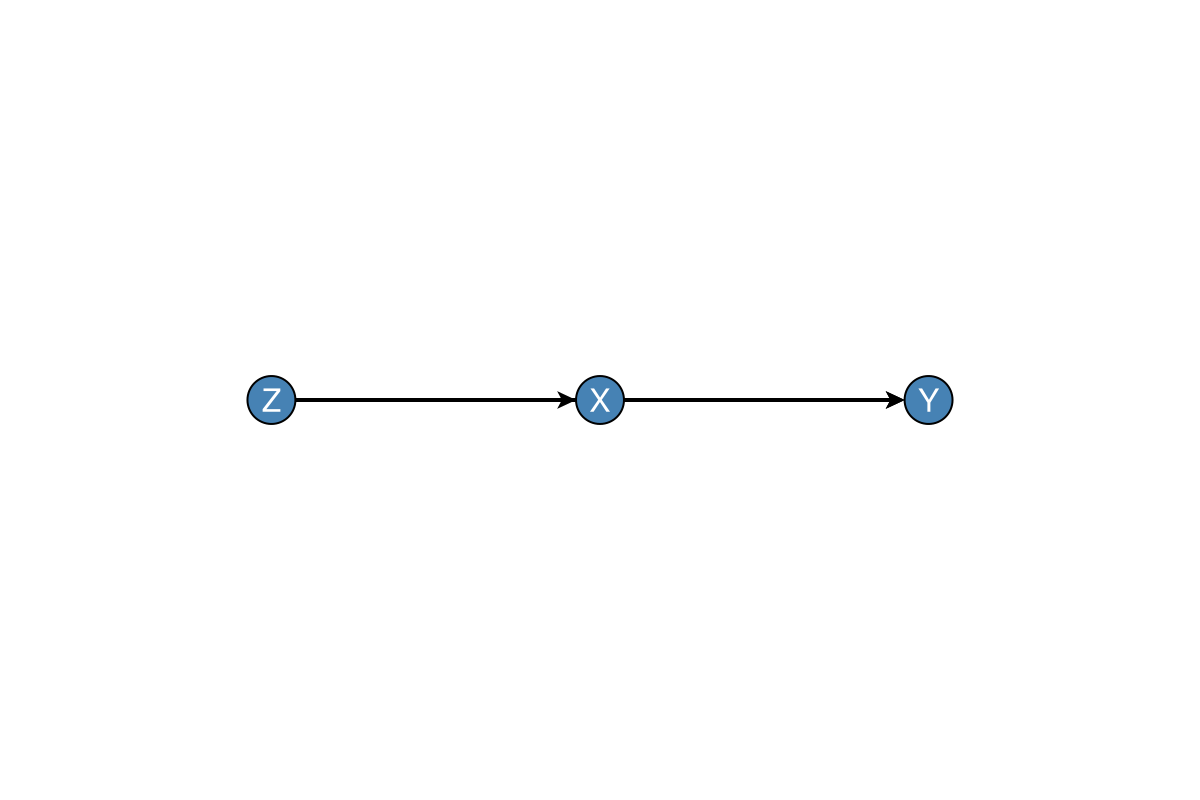
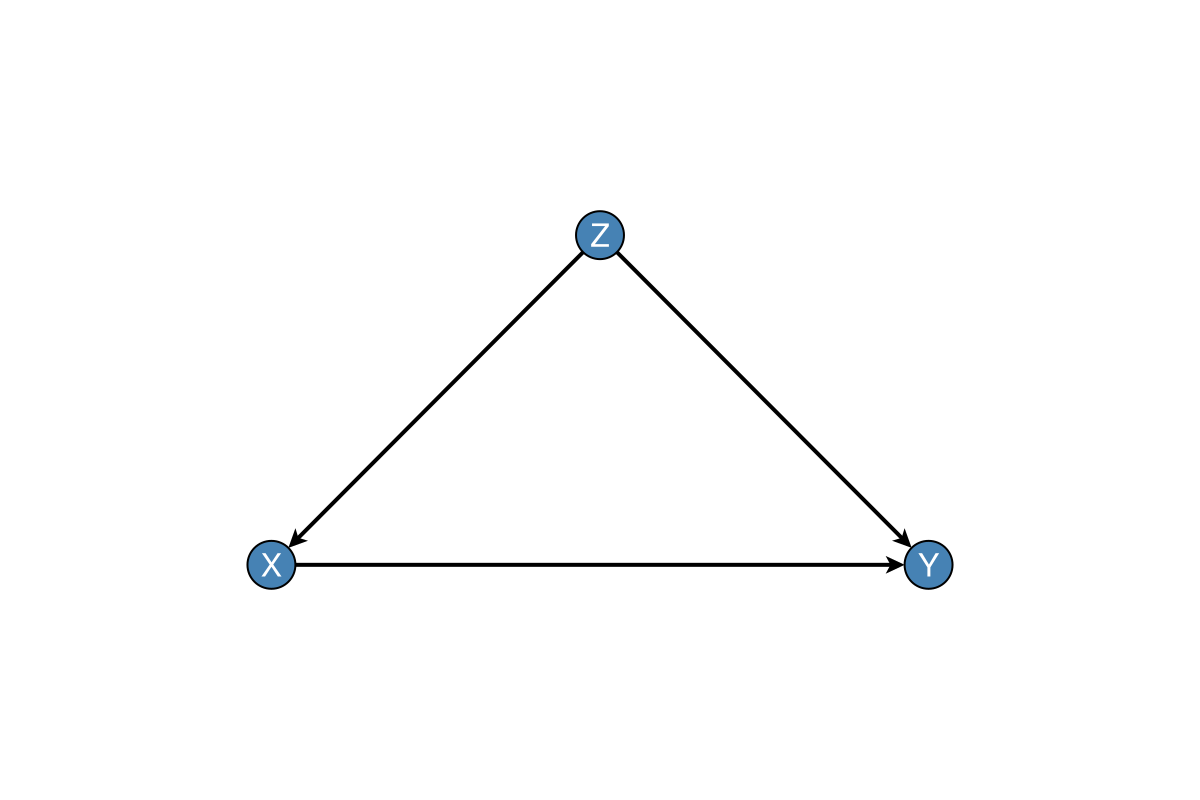
Use triangle confounding DAG for the README hero figure.
Layered layout collapsed Z→Y into a chain; dagplot_confounding keeps the confounder apex visible.

diff --git a/README.md b/README.md
@@ -42,17 +42,11 @@ Pkg.develop(path="/path/to/DAGMakie.jl")
 ## Quick Start
 
 ```julia
-using Graphs, DAGMakie, CairoMakie
+using DAGMakie, CairoMakie
 
-# Create a simple confounding DAG: Z → X → Y, Z → Y
-g = SimpleDiGraph(3)
-add_edge!(g, 1, 2)  # Z → X
-add_edge!(g, 1, 3)  # Z → Y
-add_edge!(g, 2, 3)  # X → Y
-
-# Plot with labels
-fig, ax, p = dagplot(g, nlabels=["Z", "X", "Y"])
-save("confounding_dag.png", fig)
+# Confounding DAG Z → X → Y, Z → Y (triangle layout: confounder on top)
+fig, ax, p = dagplot_confounding(["Z", "X", "Y"])
+save("docs/images/confounding_dag.png", fig)
 ```
 
 ![Confounding DAG](docs/images/confounding_dag.png)
